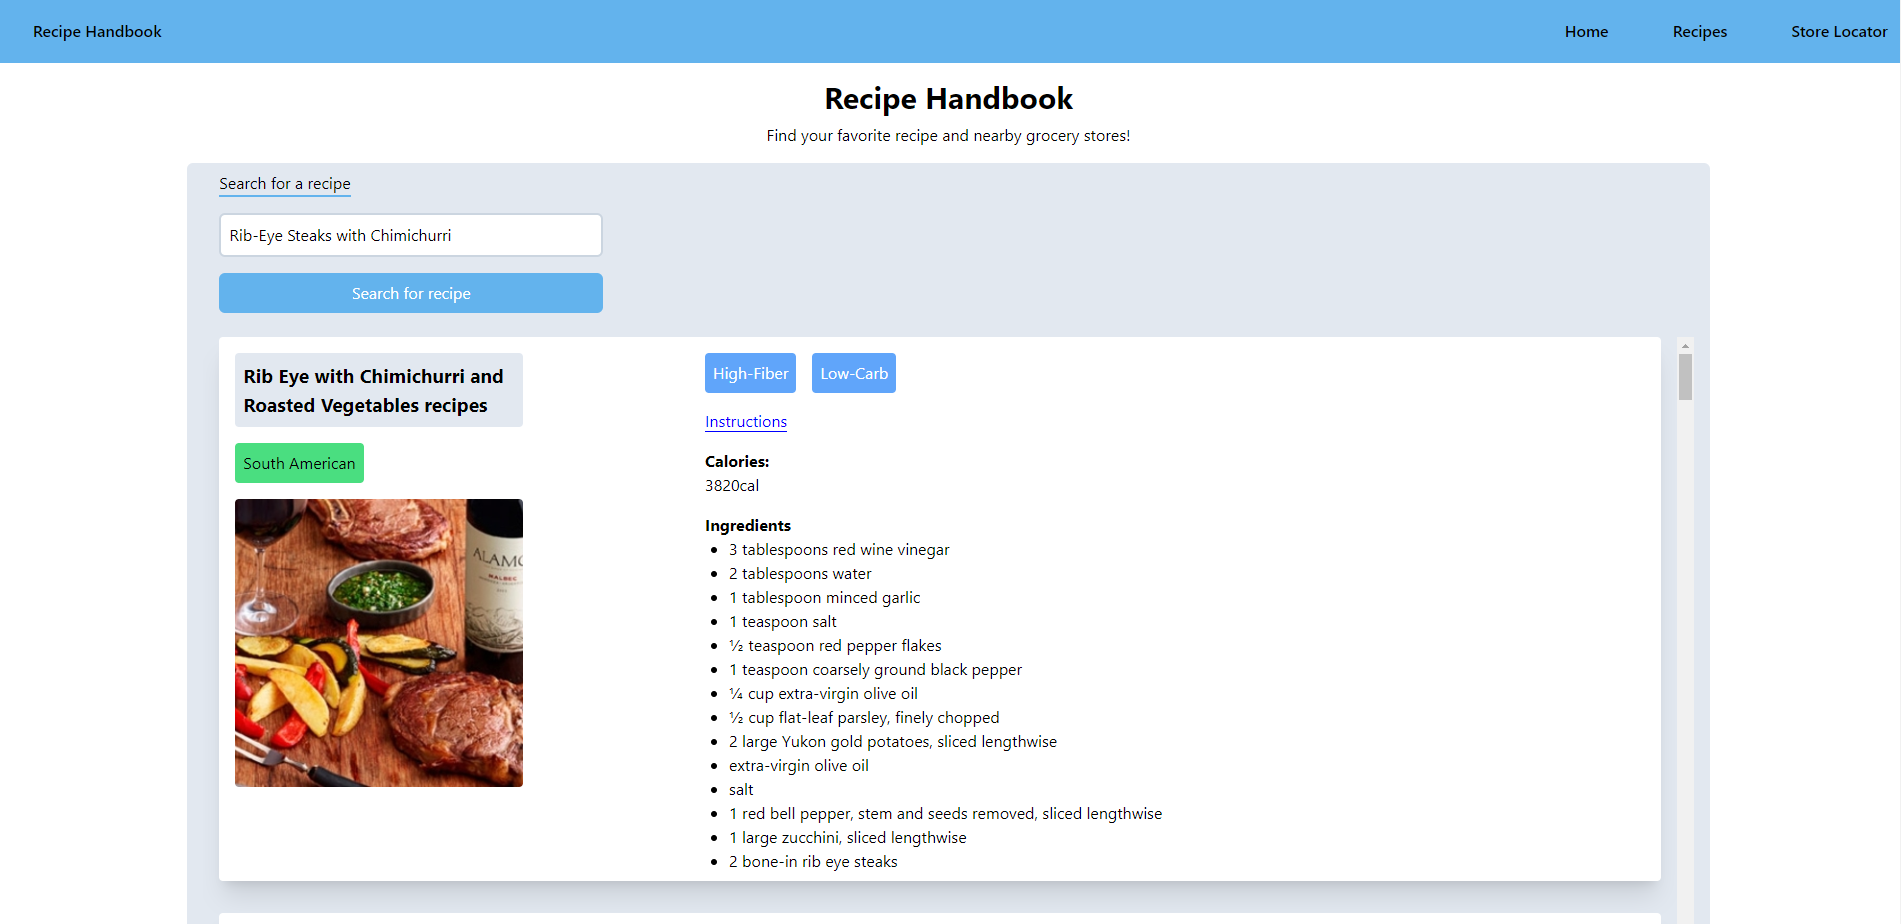
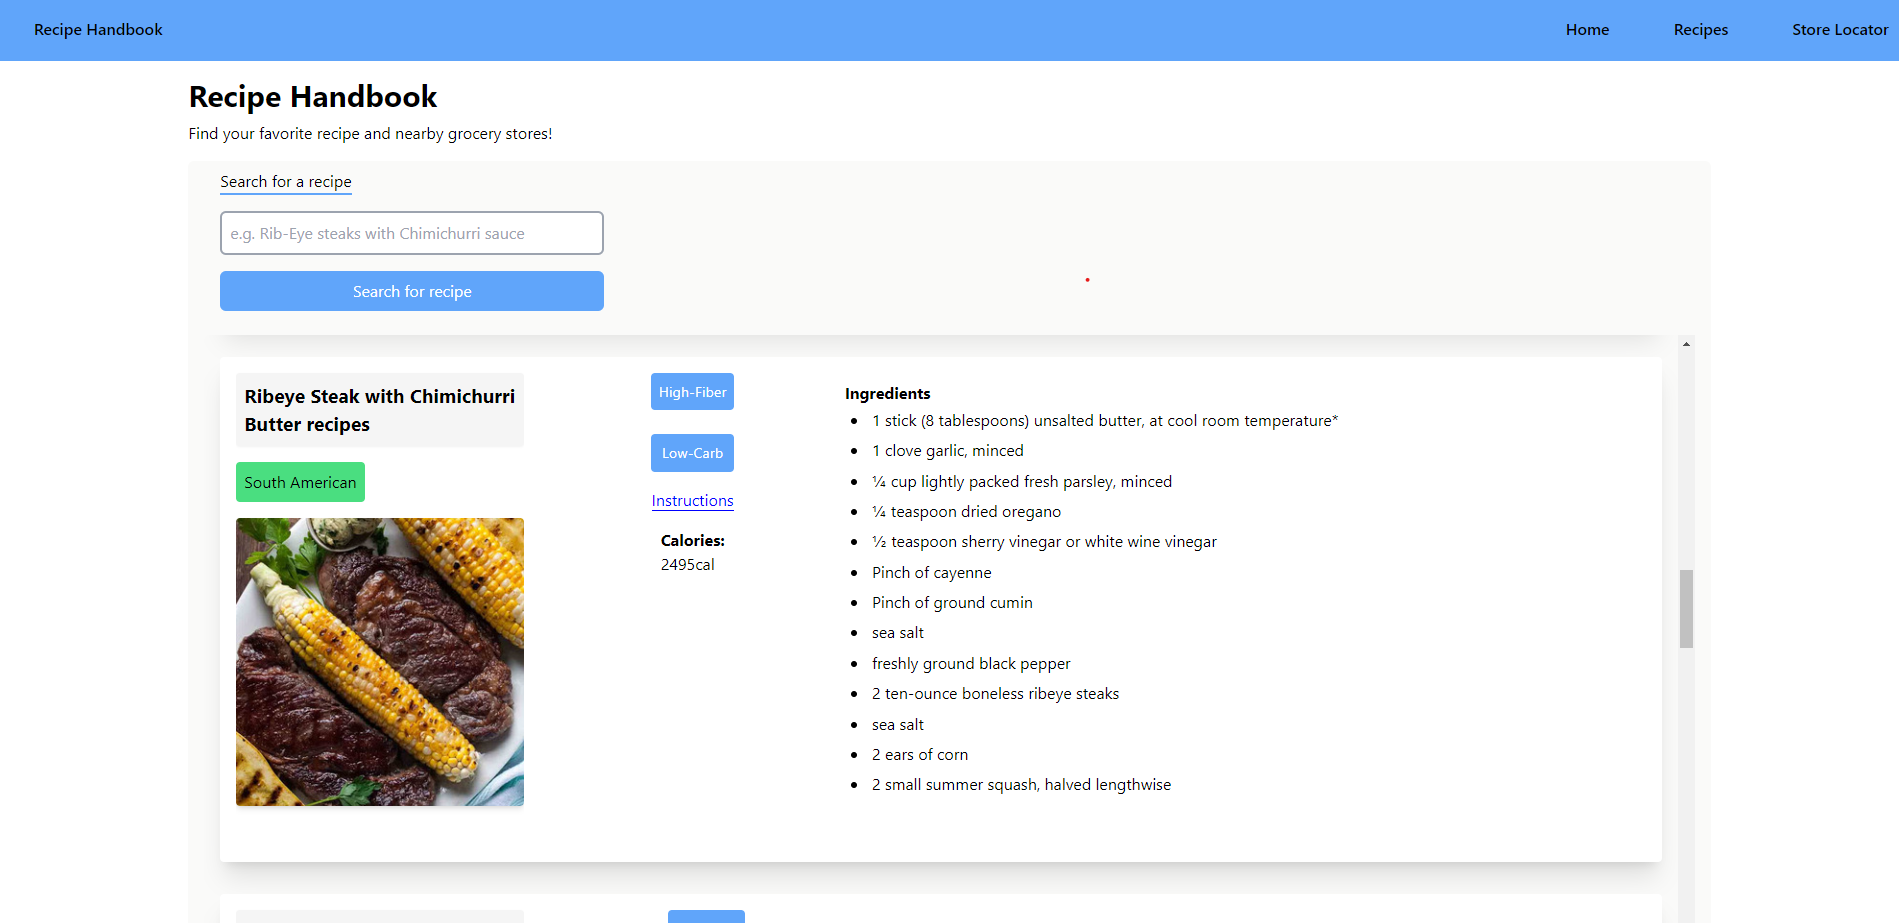
update js logic

diff --git a/assets/js/script.js b/assets/js/script.js
@@ -1,5 +1,3 @@
-var tastyURL = `https://tasty.p.rapidapi.com/recipes/list?from=0&size=20&tags=under_30_minutes`
-
 // edamam api
 // new API endpoint because the old API hit the monthly 500 limit
 var appID = '8909c56f'
@@ -17,7 +15,7 @@ var recipeDetailsContainerEl = document.querySelector(
 	'#recipe-details-container'
 )
 
-// array to store th fetched recipe data information
+// array to store the fetched recipe data information
 var edamamDataStore = []
 
 // fetch Edamam API endpoint to get recipe details (10,000 calls/ month limit)s
@@ -52,6 +50,7 @@ function displayRecipeDetails(arr) {
 	for (var i = 0; i < arr.length; i++) {
 		var cardContainerLeft = document.createElement('article')
 		var cardContainerRight = document.createElement('article')
+		var cardContainerEnd = document.createElement('article')
 		var cardWrapper = document.createElement('div')
 		var cardWrapperRight = document.createElement('div')
 
@@ -61,10 +60,12 @@ function displayRecipeDetails(arr) {
 
 		// ingredients list
 		var ingredientListEl = document.createElement('ol')
+		ingredientListEl.setAttribute('id', 'ingredientsContainer')
 		const ingredientsObj = arr[i].recipe.ingredientLines
-		// looping through the array of ingredient strings and putting them in their own li tag.
+		// looping through the array of ingredient strings and putting them in their own <li> tag.
 		ingredientsObj.map((item) => {
 			var ingredientItem = document.createElement('li')
+			ingredientItem.setAttribute('id', 'ingredientItem')
 			ingredientItem.textContent = item
 			ingredientListEl.appendChild(ingredientItem)
 		})
@@ -72,8 +73,9 @@ function displayRecipeDetails(arr) {
 		cardWrapper.setAttribute('id', 'recipeCardWrapper')
 		cardContainerLeft.setAttribute('id', 'recipeCardContainerLeft')
 		cardContainerRight.setAttribute('id', 'recipeCardContainerRight')
+		cardContainerEnd.setAttribute('id', 'recipeCardContainerEnd')
 
-		// name of recipe
+		// recipe name label element
 		var recipeLabelEl = document.createElement('h3')
 		recipeLabelEl.setAttribute('id', 'recipeLabel')
 		recipeLabelEl.textContent = arr[i].recipe.label
@@ -116,19 +118,23 @@ function displayRecipeDetails(arr) {
 		cardContainerRight.appendChild(dietTagsContainer)
 		cardContainerRight.appendChild(instructionsEl)
 		cardContainerRight.appendChild(recipeCaloriesEl)
-		cardContainerRight.appendChild(ingredientListEl)
+		// cardContainerRight.appendChild(ingredientListEl)
+		cardContainerEnd.appendChild(ingredientListEl)
 		cardContainerLeft.appendChild(recipeLabelEl)
 		cardContainerLeft.appendChild(recipeCuisineType)
 		cardContainerLeft.appendChild(recipeImageEl)
 		cardWrapper.appendChild(cardContainerLeft)
 		cardWrapper.appendChild(cardContainerRight)
+		cardWrapper.appendChild(cardContainerEnd)
 		recipeContentCardEl.setAttribute('id', 'recipeContentCardEl')
 		recipeContentCardEl.appendChild(cardWrapper)
 		recipeContentCardEl.appendChild(cardWrapperRight)
-		console.log(`description: ${edamamDataStore[0][1].label}`)
 	}
 	return recipeContentCardEl
 }
 
 // fetch recipe searched query when user clicks 'search for recipe button'
 recipeSearchBtn.addEventListener('click', fetchEdamam)
+
+// old API endpoint
+// var tastyURL = `https://tasty.p.rapidapi.com/recipes/list?from=0&size=20&tags=under_30_minutes`
